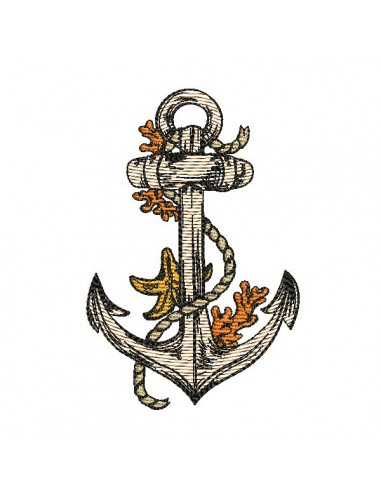
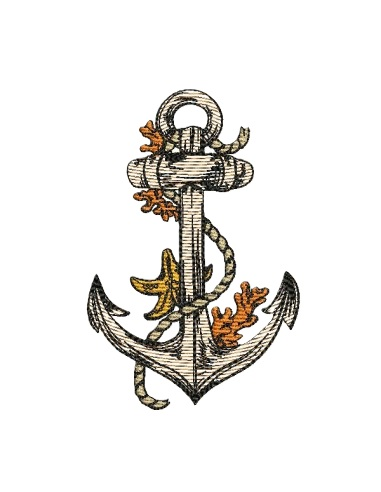
ofe

diff --git a/index.html b/index.html
@@ -13,7 +13,7 @@
     <style>
         /* Gère l'image de fond (l'ancre) */
         body {
-            background-image: url('img/ancre.jpg');
+            background-image: url('img/ancre-removebg-preview.png');
             background-repeat: no-repeat;
             background-position: center center;
             background-attachment: fixed;
@@ -92,6 +92,26 @@
                 text-align: center !important;
             }
         }
+        [data-bs-theme="dark"] #presentation {
+            /* On change le fond blanc en gris très foncé */
+            background-color: #1a1a1a; 
+            /* On change le texte sombre en texte clair */
+            color: #eee;
+        }
+
+        /* On change aussi le texte du titre et le lien de la souris */
+        [data-bs-theme="dark"] #presentation h1,
+        [data-bs-theme="dark"] #presentation h2,
+        [data-bs-theme="dark"] #presentation .lead,
+        [data-bs-theme="dark"] .scroll-down-link {
+            color: #eee !important;
+        }
+
+        /* On change les boîtes blanches semi-transparentes... */
+        [data-bs-theme="dark"] .container {
+             /* ...en boîtes grises foncées semi-transparentes */
+            background-color: rgba(20, 20, 20, 0.95);
+        }
     </style>
 </head>
 
@@ -107,8 +127,7 @@
           <span class="navbar-toggler-icon"></span>
         </button>
         <div class="collapse navbar-collapse" id="navbarNav">
-          <ul class="navbar-nav ms-auto">
-            <li class="nav-item">
+          <ul class="navbar-nav ms-auto"> <li class="nav-item">
               <a class="nav-link" href="#presentation">Accueil</a>
             </li>
             <li class="nav-item">
@@ -120,7 +139,12 @@
             <li class="nav-item">
               <a class="nav-link" href="#sites">Sites Utiles</a>
             </li>
-          </ul>
+            
+            <li class="nav-item ms-lg-2">
+              <a class="nav-link" href="#" id="theme-toggle">
+                <i class="bi bi-sun-fill" id="theme-icon-sun"></i> <i class="bi bi-moon-stars-fill d-none" id="theme-icon-moon"></i> </a>
+            </li>
+            </ul>
         </div>
       </div>
     </nav>
@@ -348,7 +372,21 @@
                     </div>
                   </div>
                 </div>
-                
+                <div class="col" data-aos="fade-up" data-aos-delay="400">
+                  <div class="card h-100 shadow-sm text-center">
+                    <div class="card-body d-flex flex-column justify-content-between">
+                      <img src="https://yt3.ggpht.com/DkE0PqthywZdukEZQrlodQAz6j_0EY17hZgM7LbwM8r9r3VsWjEw2TcBO3Kleh6EqXpKNwwT=s176-c-k-c0x00ffffff-no-rj-mo" 
+                           class="rounded-circle mb-3 shadow-sm" 
+                           alt="Logo de la chaîne" 
+                           style="width: 90px; height: 90px; object-fit: cover; margin-left: auto; margin-right: auto;">
+                      <h5 class="card-title">EPSILON NEGATIF</h5>
+                      <p class="card-text text-muted">yfgbuy</p>
+                      <a href="https://www.youtube.com/@EPSILONNEGATIF" class="btn btn-danger" target="_blank">
+                        Voir la chaîne <i class="bi bi-box-arrow-up-right ms-2"></i>
+                      </a>
+                    </div>
+                  </div>
+                </div>
                 <div class="col" data-aos="fade-up" data-aos-delay="200">
                   <div class="card h-100 shadow-sm text-center">
                     <div class="card-body d-flex flex-column justify-content-between">
@@ -555,6 +593,64 @@
     <script>
         // C'est la ligne magique qui active toutes les animations
         AOS.init(); 
+    
+        // --- DÉBUT DU SCRIPT POUR LE DARK MODE ---
+        
+        // On récupère les éléments dont on a besoin
+        const toggleButton = document.getElementById('theme-toggle');
+        const sunIcon = document.getElementById('theme-icon-sun');
+        const moonIcon = document.getElementById('theme-icon-moon');
+        const htmlElement = document.documentElement; // C'est la balise <html>
+
+        // Fonction pour appliquer un thème (dark/light)
+        function applyTheme(theme) {
+            htmlElement.setAttribute('data-bs-theme', theme);
+            if (theme === 'dark') {
+                sunIcon.classList.add('d-none'); // Cache le soleil
+                moonIcon.classList.remove('d-none'); // Montre la lune
+            } else {
+                sunIcon.classList.remove('d-none'); // Montre le soleil
+                moonIcon.classList.add('d-none'); // Cache la lune
+            }
+        }
+
+        // Écouteur de clic sur le bouton
+        toggleButton.addEventListener('click', (e) => {
+            e.preventDefault(); // Empêche le lien de sauter
+            
+            // On vérifie le thème actuel
+            const currentTheme = htmlElement.getAttribute('data-bs-theme');
+            // On choisit le nouveau thème
+            const newTheme = (currentTheme === 'dark') ? 'light' : 'dark';
+            
+            // On applique le nouveau thème
+            applyTheme(newTheme);
+            // On sauvegarde le choix dans le navigateur
+            localStorage.setItem('theme', newTheme);
+        });
+
+        // Fonction pour charger le thème au démarrage
+        function loadTheme() {
+            // 1. On regarde si l'utilisateur a déjà fait un choix
+            const savedTheme = localStorage.getItem('theme');
+            
+            // 2. Sinon, on regarde la préférence de son système (Windows, Mac, Android...)
+            const prefersDark = window.matchMedia('(prefers-color-scheme: dark)').matches;
+
+            if (savedTheme) {
+                applyTheme(savedTheme); // On applique le choix sauvegardé
+            } else if (prefersDark) {
+                applyTheme('dark'); // On applique la préférence système
+            } else {
+                applyTheme('light'); // Par défaut, on met le mode lumineux
+            }
+        }
+
+        // On lance la fonction de chargement au démarrage de la page
+        loadTheme();
+        
+        // --- FIN DU SCRIPT POUR LE DARK MODE ---
+
     </script>
 
 </body>
